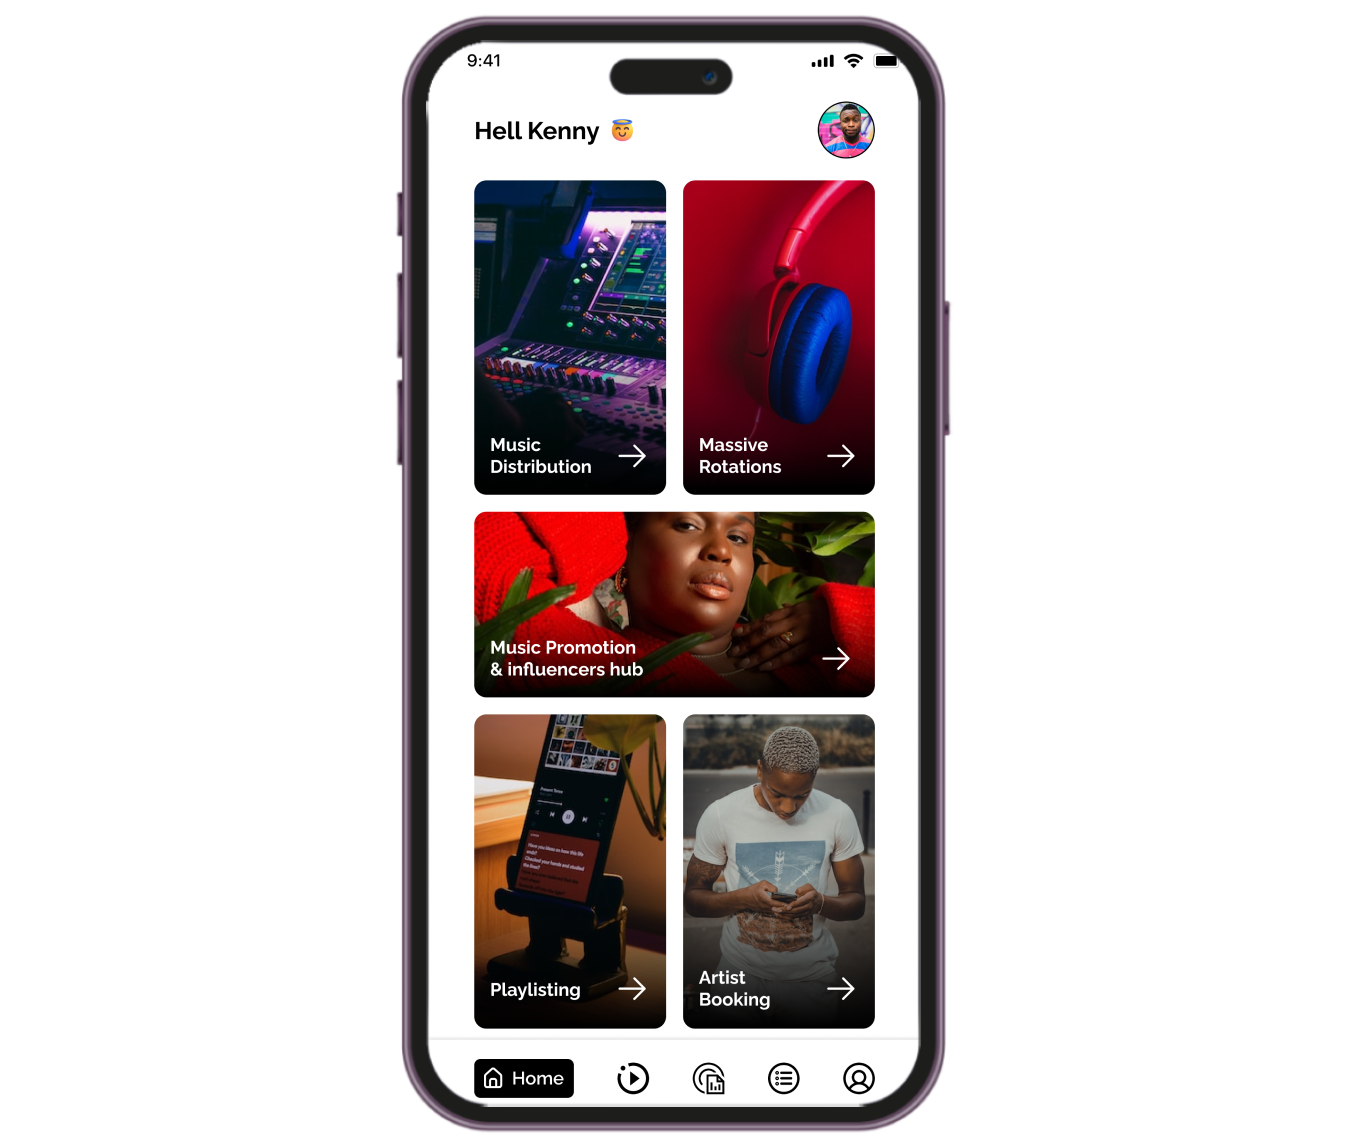
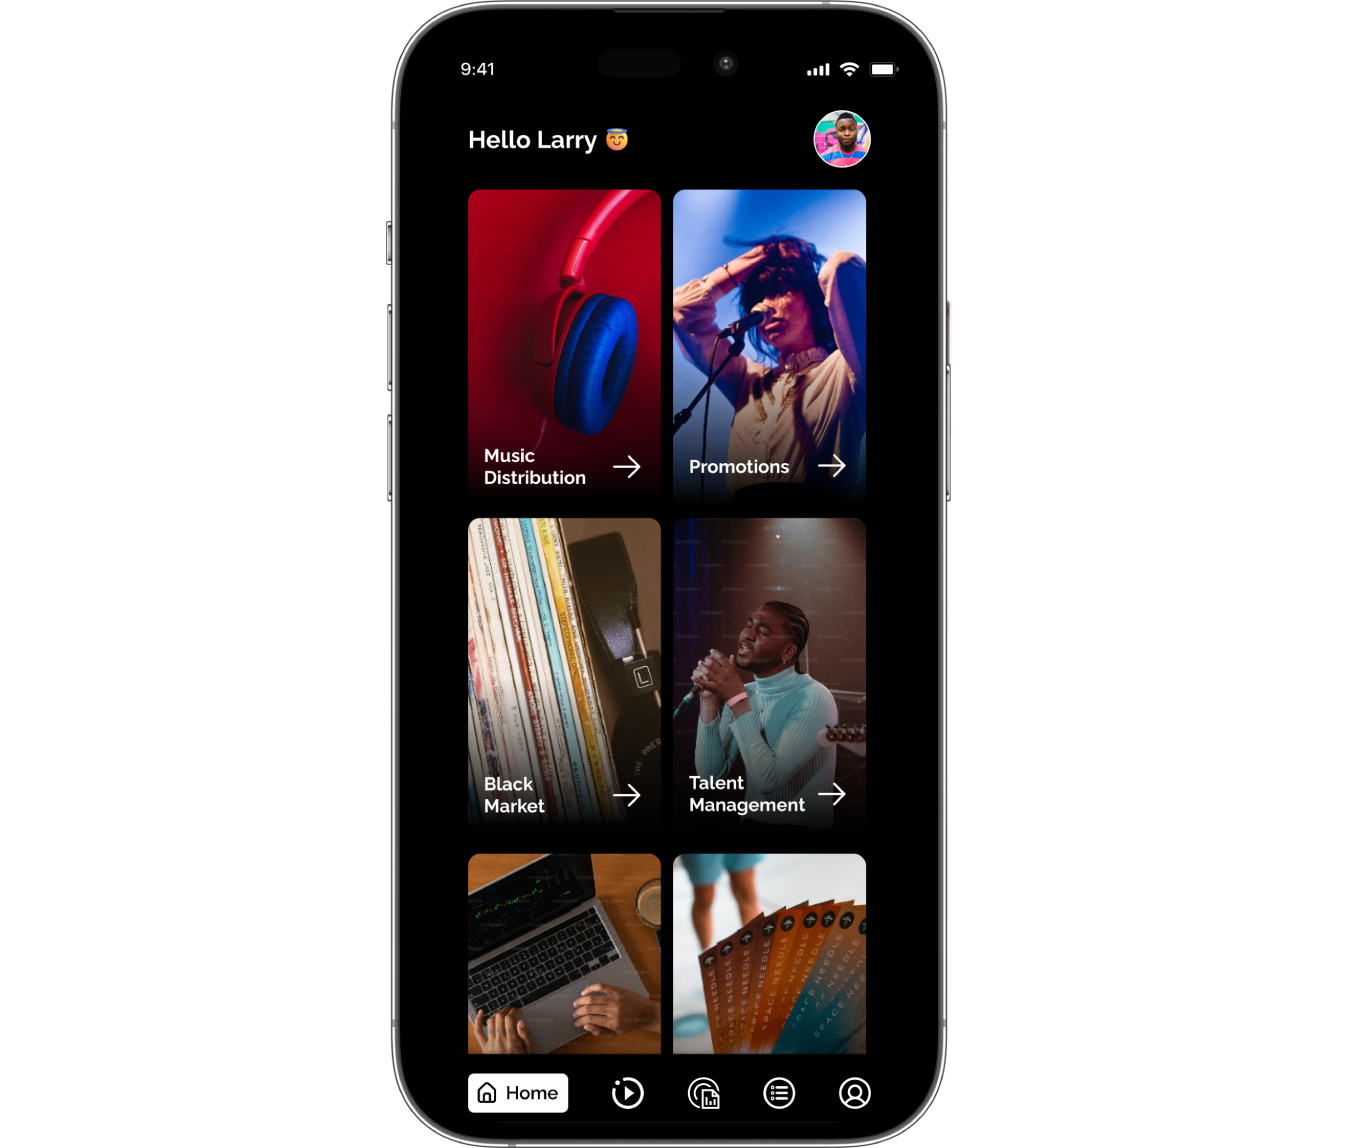
new home page

diff --git a/src/pages/Home.jsx b/src/pages/Home.jsx
@@ -1,26 +1,25 @@
 import React from 'react'
-import NavBar from '../components/NavBar'
 import Footer from '../components/Footer'
 
 export default function Home() {
     return (
       <>
         <main className="page-wrapper">
-
-          <NavBar />
-
-          <section className="dark-mode bg-dark bg-size-cover bg-repeat-0 bg-position-center position-relative overflow-hidden py-5 mb-4 h-100" style={{backgroundImage: 'url(assets/img/bg.jpg)'}}>
-              <div className="container position-relative zindex-2 pt-5 pb-md-2 pb-lg-4 pb-xl-5">
+          <section className="dark-mode bg-black                                                                                                                                                                                        bg-size-cover bg-repeat-0 bg-position-center position-relative overflow-hidden py-5 mb-4 h-100">
+              <div className="container position-relative zindex-2 pt-5 pb-md-2 pb-lg-4 pb-xl-5 vh-100">
                 <div className="row pt-3 pb-2 py-md-4">
-                
                     <div className="col-xl-5 col-md-6 pt-lg-5 text-center text-md-start mb-4 mb-md-0">
+                      <a href="./" className="navbar-brand">
+                          <img src="assets/img/AfroJuju-Logo.png" width={207} alt="logo" />
+                      </a>
                       <h1 className="display-4 pb-2 pb-sm-3">Sell your music <span className='text-gradient'>worldwide</span></h1>
-                      <p className="fs-lg d-md-none d-xl-block pb-2 pb-md-0 mb-4 mb-md-5">Get your tracks on major streaming platforms including Spotify, Apple Music, Amazon, Deezer and more with our music distribution services. Go viral on the biggest social channels like TikTok, Instagram & Facebook. Build a new global fan base on international music stores.</p>
+                      {/* <p className="fs-lg d-md-none d-xl-block pb-2 pb-md-0 mb-4 mb-md-5">Get your tracks on major streaming platforms including Spotify, Apple Music, Amazon, Deezer and more with our music distribution services. Go viral on the biggest social channels like TikTok, Instagram & Facebook. Build a new global fan base on international music stores.</p> */}
                       <div className="d-flex flex-column flex-sm-row justify-content-center justify-content-md-start">
-                        <a href="https://app.afrojuju.co" className="btn btn-lg px-3 py-2 me-sm-3 me-lg-4 mb-3" style={{backgroundColor: '#223158'}}>
+                        <a href="https://app.afrojuju.co.uk" className="btn btn-lg px-3 py-2 me-sm-3 me-lg-4 mb-3" style={{backgroundColor: '#223158'}}>
                           <img src="assets/img/market/appstore-light.svg" className="dark-mode-img" width={124} alt="App Store" />
                         </a>
-                        <a href="https://app.afrojuju.co"className="btn btn-lg px-3 py-2 mb-3" style={{backgroundColor: '#223158'}}>
+
+                        <a href="https://app.afrojuju.co.uk"className="btn btn-lg px-3 py-2 mb-3" style={{backgroundColor: '#223158'}}>
                           <img src="assets/img/market/googleplay-light.svg" className="dark-mode-img" width={139} alt="Google Play" />
                         </a>
                       </div>
@@ -29,22 +28,16 @@ export default function Home() {
                     <div className="col-xl-7 col-md-6 d-md-flex justify-content-end">
                       <div className="parallax mx-auto ms-md-0 me-md-n5" style={{maxWidth: '675px'}}>
                           <div className="parallax-layer zindex-2" data-depth="0.1">
-                          <img src="assets/img/layer01.png" alt="Card" />
-                          </div>
-                          <div className="parallax-layer zindex-3" data-depth="0.25">
-                          <img src="assets/img/layer02.png" alt="Bubble" />
-                          </div>
-                          <div className="parallax-layer" data-depth="-0.15">
-                          <img src="assets/img/layer03.png" alt="Bubble" />
+                            <img src="assets/img/layer01.png" alt="Card" />
                           </div>
                       </div>
                     </div>
                 </div>
               </div>
           </section>
-
-          <Footer />
         </main>
+
+        <Footer />
       </>
     )
 }

diff --git a/src/components/NavBar.jsx b/src/components/NavBar.jsx
@@ -16,39 +16,23 @@ export default function NavBar() {
                     </div>
                     <div className="offcanvas-body mx-auto mx-4">
                         <ul className="navbar-nav mb-2 mb-lg-0">
-                            <li className="nav-item dropdown">
-                                <a href className="nav-link dropdown-toggle" data-bs-toggle="dropdown">Products</a>
-                                <ul className="dropdown-menu dropdown-menu-dark">
-                                    <li><Link to='' className="dropdown-item">Music Distribution</Link></li>
-                                    <li><Link to='' className="dropdown-item">Talent Management</Link></li>
-                                    <li><Link to='' className="dropdown-item">Instagram Trends</Link></li>
-                                    <li><Link to='' className="dropdown-item">Radio Promotions</Link></li>
-                                    <li><Link to='' className="dropdown-item">TV Promotions</Link></li>
-                                    <li><Link to='' className="dropdown-item">Tiktok</Link></li>
-                                    <li><Link to='' className="dropdown-item">Trends/Influencer</Link></li>
-                                    <li><Link to='' className="dropdown-item">Engagement</Link></li>
-                                </ul>
-                            </li>
-                            <li className="nav-item dropdown">
-                                <a href className="nav-link dropdown-toggle" data-bs-toggle="dropdown">Services</a>
-                                <ul className="dropdown-menu dropdown-menu-dark">
-                                    <li><Link to='' className="dropdown-item">Youtube Subscribers & Viewers (Organic)</Link></li>
-                                    <li><Link to='' className="dropdown-item">Spotify Playlisting & Trends</Link></li>
-                                    <li><Link to='' className="dropdown-item">Apple Music Playlisting</Link></li>
-                                    <li><Link to='' className="dropdown-item">Boomplay Playlisting</Link></li>
-                                    <li><Link to='' className="dropdown-item">Audiomack Playlisting</Link></li>
-                                    <li><Link to='' className="dropdown-item">Artist Bookings</Link></li>
-                                    <li><Link to='' className="dropdown-item">Worldwide Touring</Link></li>
-                                </ul>
+                            <li className="nav-item">
+                                <Link to='/pricing' className="nav-link">Distribution</Link>
                             </li>
                             <li className="nav-item">
-                                <Link to='/pricing' className="nav-link">Pricing</Link>
+                                <Link to='/faq' className="nav-link">Promotions</Link>
                             </li>
                             <li className="nav-item">
-                                <Link to='/faq' className="nav-link">FAQ's</Link>
+                                <Link to='/contact' className="nav-link">Black Market</Link>
                             </li>
                             <li className="nav-item">
-                                <Link to='/contact' className="nav-link">Contact us</Link>
+                                <Link to='/contact' className="nav-link">Talent Mgt</Link>
+                            </li>
+                            <li className="nav-item">
+                                <Link to='/contact' className="nav-link">Bookings</Link>
+                            </li>
+                            <li className="nav-item">
+                                <Link to='/contact' className="nav-link">Ticket</Link>
                             </li>
                         </ul>
                     </div>

diff --git a/src/components/Footer.jsx b/src/components/Footer.jsx
@@ -4,21 +4,21 @@ import { Link } from 'react-router-dom'
 export default function Footer() {
   return (
     <>
-      <footer className="footer pt-5 pb-4 pb-lg-5">
-        <div className="container text-center pt-lg-3">
+      <footer className="footer pt-1 pb-4 pb-lg-1">
+        <div className="container text-center pt-lg-1">
           <div className="navbar-brand justify-content-center text-dark mb-2 mb-lg-4">
-            <img src="assets/img/AfroJuju-Logo.png" className="me-2" width={200} alt="Silicon" />
+            <img src="assets/img/AfroJuju-Logo.png" width={200} alt="Afrojuju" />
           </div>
-          <ul className="nav justify-content-center pt-2 pb-4 pb-lg-5">
-            <li className="nav-item"><Link to='/terms' className="nav-link">Terms</Link></li>
-            <li className="nav-item"><Link to='/privacy' className="nav-link">Privacy</Link></li>
-            <li className="nav-item"><Link to='/about' className="nav-link">About us</Link></li>
+          <ul className="nav justify-content-center pt-2 pb-4 pb-lg-3">
+            <li className="nav-item"><Link to='' className="nav-link">Terms</Link></li>
+            <li className="nav-item"><Link to='' className="nav-link">Privacy</Link></li>
+            <li className="nav-item"><Link to='' className="nav-link">About us</Link></li>
           </ul>
           <div className="d-flex flex-column flex-sm-row justify-content-center">
-            <a href="https://app.afrojuju.co" className="btn btn-lg px-3 py-2 me-sm-3 me-lg-4 mb-3" style={{backgroundColor: '#223158'}}>
+            <a href="https://app.afrojuju.co.uk" className="btn btn-lg px-3 py-2 me-sm-3 me-lg-4 mb-3" style={{backgroundColor: '#223158'}}>
               <img src="assets/img/market/appstore-light.svg" className="dark-mode-img" width={124} alt="App Store" />
             </a>
-            <a href="https://app.afrojuju.co"className="btn btn-lg rounded px-3 py-2 mb-3" style={{backgroundColor: '#223158'}}>
+            <a href="https://app.afrojuju.co.uk"className="btn btn-lg rounded px-3 py-2 mb-3" style={{backgroundColor: '#223158'}}>
               <img src="assets/img/market/googleplay-light.svg" className="dark-mode-img" width={139} alt="Google Play" />
             </a>
           </div>

diff --git a/src/pages/About.jsx b/src/pages/About.jsx
@@ -1,0 +1,49 @@
+import React from 'react'
+import NavBar from '../components/NavBar'
+import Footer from '../components/Footer'
+
+export default function About() {
+  return (
+    <>
+        <main className="page-wrapper">
+
+            <NavBar />
+
+            <section className="position-relative pt-5 mb-5" style={{backgroundColor: '#151922'}}>
+                <span className="d-dark-mode-none d-block position-absolute start-0 bottom-0 w-100 bg-white" style={{height: '19.875vw'}} />
+                <span className="d-dark-mode-block d-none position-absolute start-0 bottom-0 w-100 bg-light" style={{height: '19.875vw'}} />
+                <div className="dark-mode container position-relative zindex-2 pt-5">
+                {/* Breadcrumb */}
+                <nav className="pt-lg-4" aria-label="breadcrumb">
+                    <ol className="breadcrumb mb-0">
+                    <li className="breadcrumb-item">
+                        <a href="index.html"><i className="bx bx-home-alt fs-lg me-1" />Home</a>
+                    </li>
+                    <li className="breadcrumb-item active" aria-current="page">About v.3</li>
+                    </ol>
+                </nav>
+                {/* Page title */}
+                <div className="mt-4 mb-lg-5 mb-4 py-3">
+                    <h1 className="display-4 mb-0">We are Silicon Team</h1>
+                </div>
+                {/* Gallery */}
+                <div className="row g-md-4 g-3">
+                    <div className="col-md-6">
+                    <img src="assets/img/about/hero/05.jpg" alt="Hero image" className="rounded-3" />
+                    </div>
+                    <div className="col-md-3 col-6 d-md-block d-none mt-5 pt-3 pt-xl-4">
+                    <img src="assets/img/about/hero/06.jpg" alt="Hero image" className="rounded-3" />
+                    </div>
+                    <div className="col-md-3 col-6 d-md-block d-none">
+                    <img src="assets/img/about/hero/07.jpg" alt="Hero image" className="rounded-3" />
+                    </div>
+                </div>
+                </div>
+            </section>
+
+            <Footer />
+            
+        </main>
+    </>
+  )
+}

diff --git a/src/App.js b/src/App.js
@@ -5,6 +5,7 @@ import Contact from './pages/Contact';
 import ErrorPage from './pages/ErrorPage';
 import Faq from './pages/Faq';
 import Pricing from './pages/Pricing';
+import About from './pages/About';
 
 function App() {
   return (
@@ -13,6 +14,7 @@ function App() {
         <ScrollToTop>
           <Routes>
             <Route path='/' element={<Home />} />
+            <Route path='/about' element={<About />} />
             <Route path='/pricing' element={<Pricing />} />
             <Route path='/faq' element={<Faq />} />
             <Route path='/contact' element={<Contact />} />
